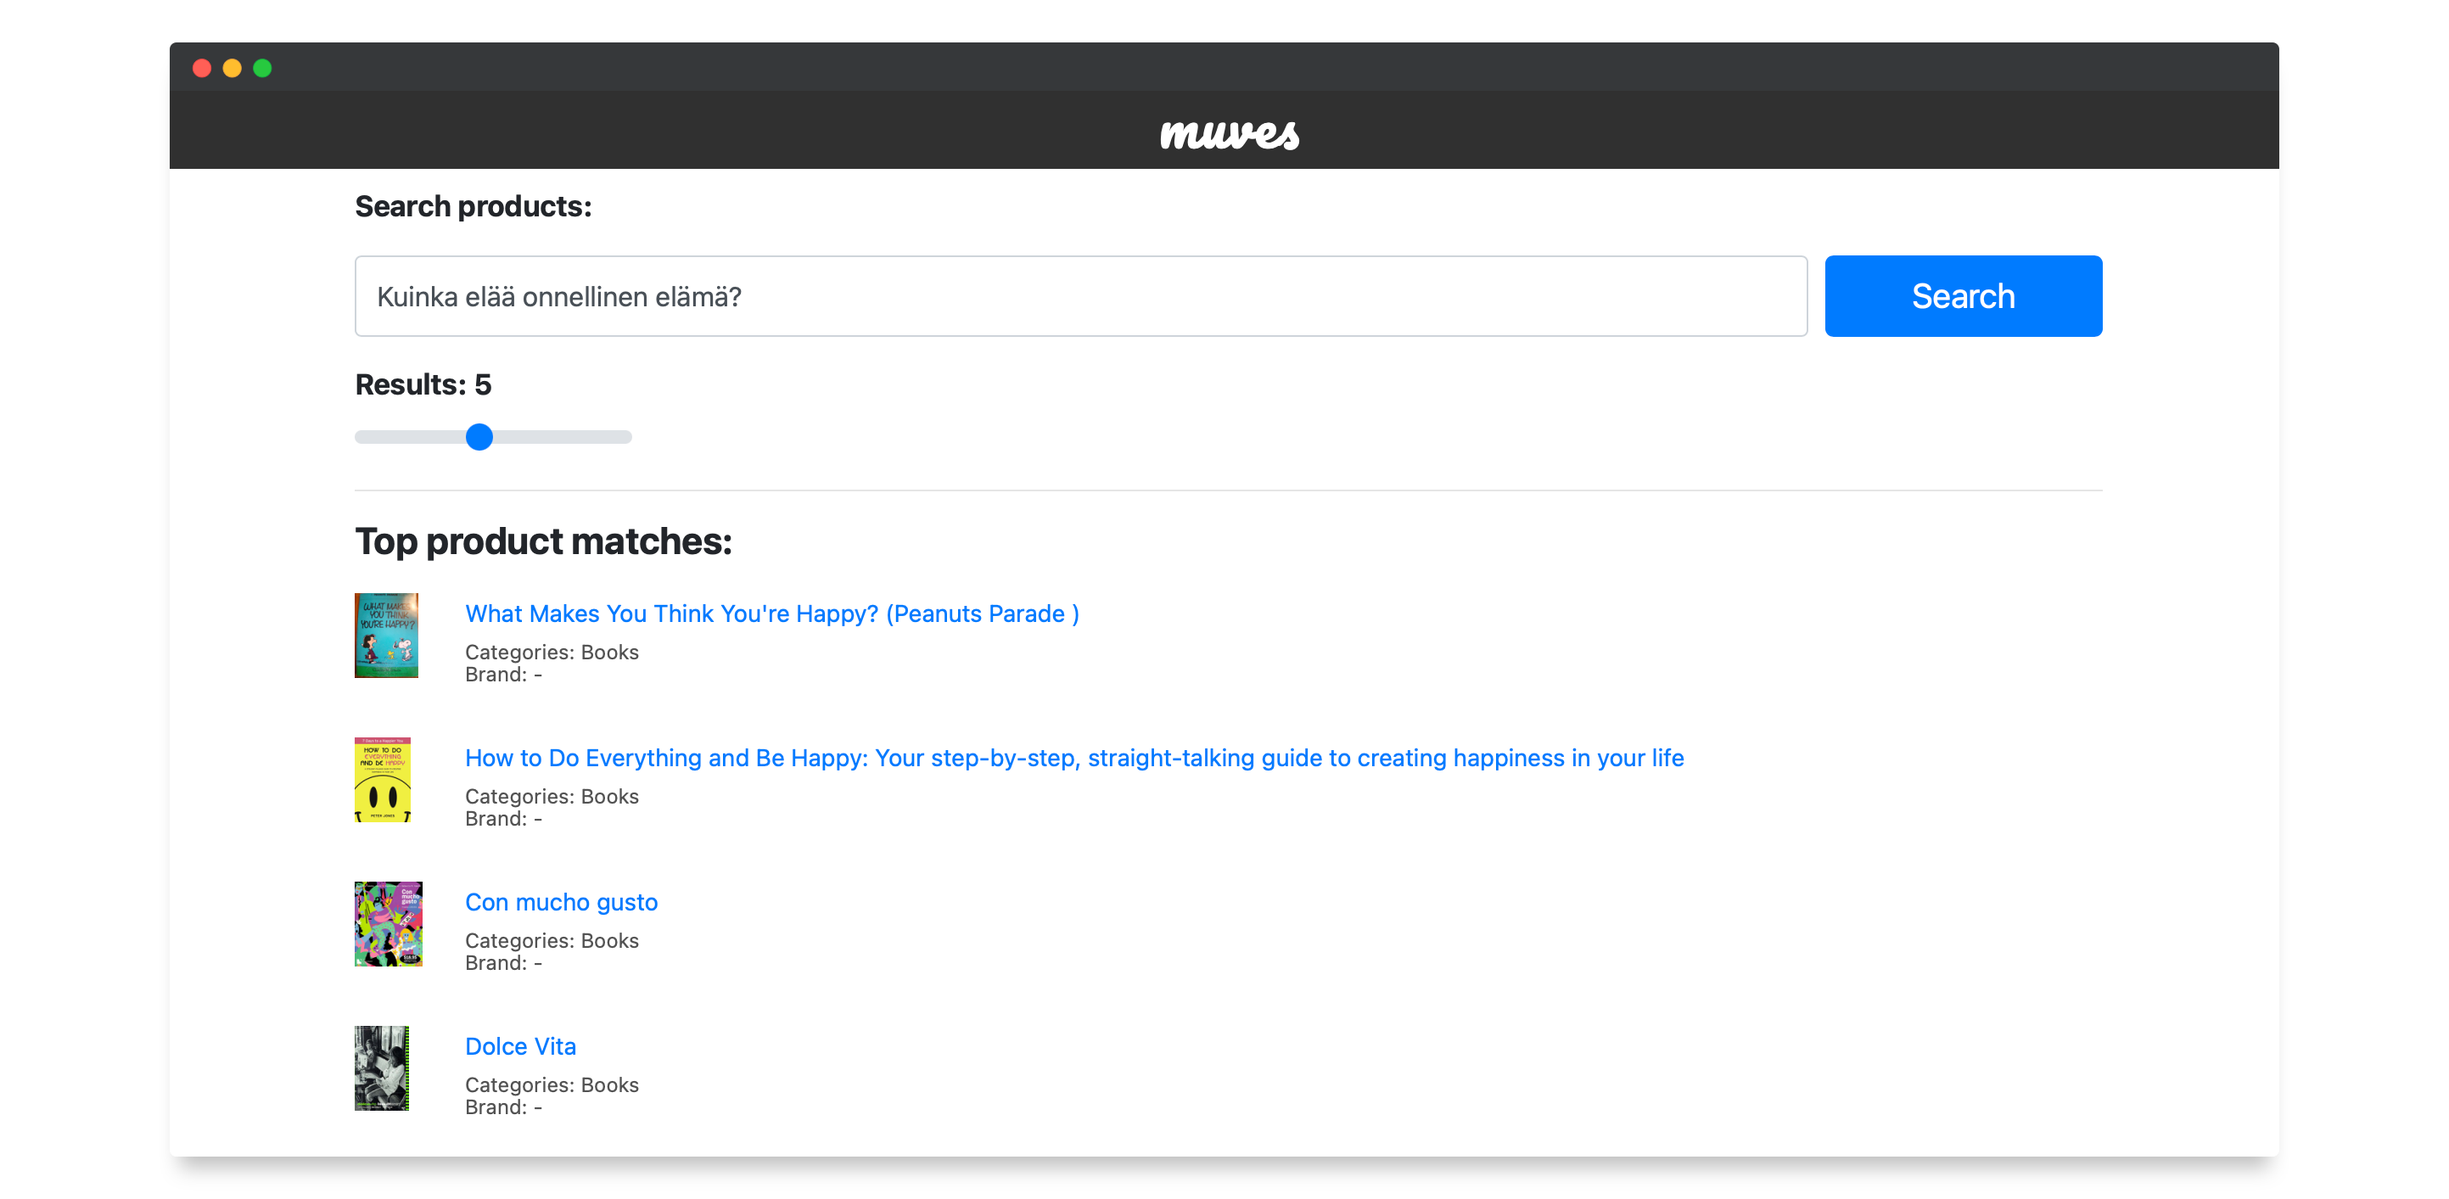
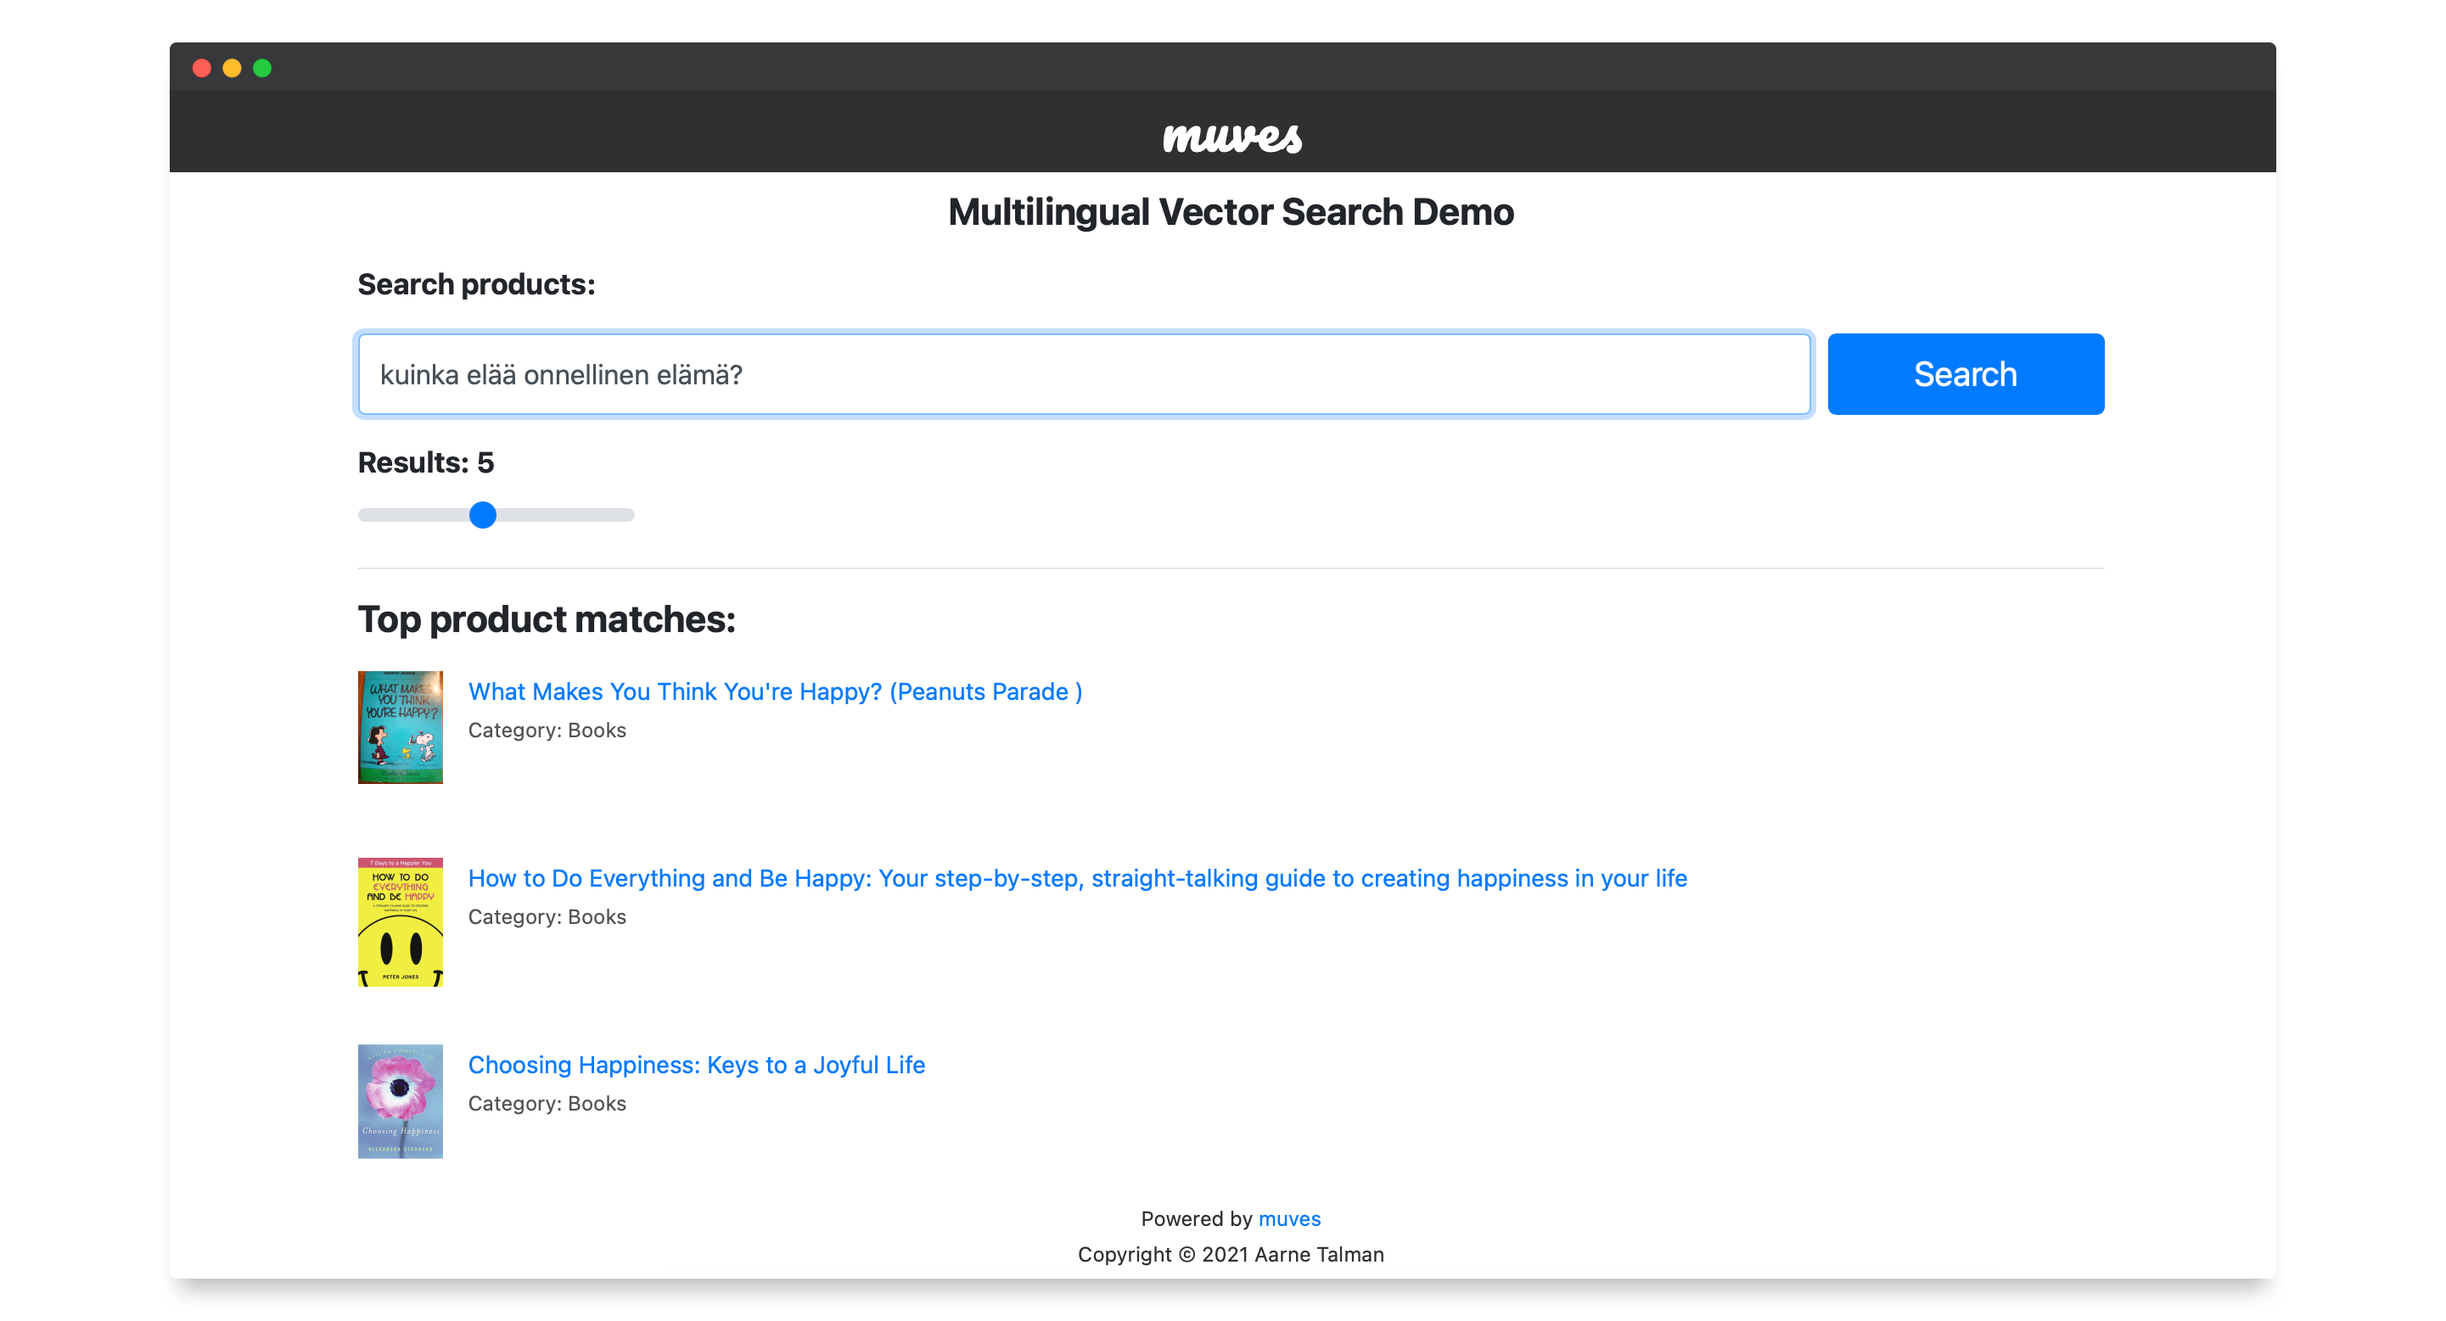
updated screenshot

diff --git a/_site/index.html b/_site/index.html
@@ -7,22 +7,22 @@
     <meta http-equiv="X-UA-Compatible" content="IE=edge">
     <meta name="viewport" content="width=device-width, initial-scale=1">
     <meta name="description" content="Natural Language Processing Research Lab and Consultancy">
-    <meta name="keywords" content="Basement AI, Natural
-    Language Processing, Machine Translation, Natural Language Understanding,
-    NL, Machine Translation, Natural Language Understanding, NLP">
+    <meta name="keywords" content="Vector search, Natural
+    Language Processing, Search engines, multilingual search, NLP">
 
-    <title>Basement AI - Natural Language Processing Research Lab and Consultancy</title>
+    <title>muves - A Multilingual Vector Search project</title>
 
-    <link rel="shortcut icon" type="image/png" href="img/favicon.png">
-    <link rel="apple-touch-icon" href="img/apple-touch-icon.png">
     <!-- Bootstrap Core CSS -->
     <link rel="stylesheet" href="css/bootstrap.css" type="text/css">
+    <link rel="shortcut icon" type="image/png" href="img/favicon.png">
+    <link rel="apple-touch-icon" href="img/apple-touch-icon.png">
 
     <!-- Custom Fonts -->
     <link href='https://fonts.googleapis.com/css?family=Roboto:300italic,400italic,600italic,700italic,800italic,100,200,400,300,600,700,800' rel='stylesheet' type='text/css'>
     <link href='https://fonts.googleapis.com/css?family=Open+Sans:300italic,400italic,600italic,700italic,800italic,400,300,600,700,800' rel='stylesheet' type='text/css'>
     <link href='https://fonts.googleapis.com/css?family=Merriweather:400,300,300italic,400italic,700,700italic,900,900italic' rel='stylesheet' type='text/css'>
     <link rel="stylesheet" href="font-awesome/css/font-awesome.css" type="text/css">
+    <link rel="stylesheet" type="text/css" href="//fonts.googleapis.com/css?family=Pacifico" />
 
     <!-- Plugin CSS -->
     <link rel="stylesheet" href="css/animate.min.css" type="text/css">
@@ -36,16 +36,6 @@
         <script src="https://oss.maxcdn.com/libs/html5shiv/3.7.0/html5shiv.js"></script>
         <script src="https://oss.maxcdn.com/libs/respond.js/1.4.2/respond.min.js"></script>
     <![endif]-->
-<meta name="google-site-verification" content="NspnCw406Sxw02TnySQgy9RzTlSR54yf6r_DFOZ4z4Q" />
-    <!-- Global site tag (gtag.js) - Google Analytics -->
-<script async src="https://www.googletagmanager.com/gtag/js?id=UA-131663937-1"></script>
-<script>
-  window.dataLayer = window.dataLayer || [];
-  function gtag(){dataLayer.push(arguments);}
-  gtag('js', new Date());
-
-  gtag('config', 'UA-131663937-1');
-</script>
 
 </head>
 
@@ -61,7 +51,7 @@
                 <span class="icon-bar"></span>
                 <span class="icon-bar"></span>
             </button>
-            <a class="navbar-brand page-scroll" href="#page-top">Basement AI</a>
+            <a class="navbar-brand page-scroll" href="#page-top">muves</a>
         </div>
 
         <!-- Collect the nav links, forms, and other content for toggling -->
@@ -71,16 +61,10 @@
                     <a class="page-scroll" href="#about">About</a>
                 </li>
                 <li>
-                    <a class="page-scroll" href="#research">Research</a>
-                </li>
-                <li>
-                    <a class="page-scroll" href="#services">Services</a>
+                    <a class="page-scroll" href="https://github.com/aarnetalman/muves">Download</a>
                 </li>
                 <li>
                     <a class="page-scroll" href="#contact">Contact</a>
-                </li>
-		<li>
-                    <a href="https://basement.ai/blog/">Blog</a>
                 </li>
             </ul>
         </div>
@@ -92,10 +76,10 @@
   <header>
     <div class="header-content">
         <div class="header-content-inner">
-            <h1>Basement <span>AI</span></h1>
+            <h1>muves</h1>
             <hr>
-            <p>Basement AI is a private AI research lab and consulting
-              company specializing in natural language processing, machine learning and search.</p>
+            <p>Muves is a multilingual vector search project created and maintained by 
+                <a href="https://github.com/aarnetalman" >Aarne Talman</a> for learning and demo purposes.</p>
             <a href="#about" class="btn btn-primary btn-xl page-scroll">Learn more</a>
         </div>
     </div>
@@ -105,151 +89,29 @@
     <div class="container">
         <div class="row">
             <div class="col-lg-8 col-lg-offset-2 text-center">
-                <h2 class="section-heading">About Basement AI</h2>
+                <h2 class="section-heading">About</h2>
                 <hr class="primary">
-                <p class="text-muted">Basement AI focuses on helping organisations to identify and unlock the value 
-                  of their data through artificial intelligence.
-                  We conduct research on natural language understanding and support both commercial 
-                  and public sector organizations with their data,
-                  AI and natural language processing related initiatives.
-                  Our expertise and experience ranges from strategy definition to hands-on development of
-                  state-of-the-art machine learning and NLP systems.</p>
-                  </div>
+                <p class="text-muted">Muves uses multilingual Sentence Transformers for encodings and 
+                   FAISS vector similarity search for indexing and searching. Muves supports over 50 languages.
+                </p>
+                  <p><img src="img/screenshot.png" align="middle" width="800"></p>
+                </div>
       <div class="col-lg-8 col-lg-offset-2 text-center">
-                <a href="#contact" class="btn btn-primary btn-xl page-scroll">Contact us!</a>
+                <a href="#contact" class="btn btn-primary btn-xl page-scroll">Contact us</a>
       </div>
         </div>
     </div>
 </section>
 
-  <section class="bg-primary" id="research">
-        <div class="container">
-            <div class="row">
-                <div class="col-lg-12 text-center">
-                    <h2 class="section-heading">Research</h2>
-                    <hr class="light">
-                    <p>We conduct academic research on Natural Language Processing and Machine Learning.</p>
-                </div>
-            </div>
-        </div>
-        <div class="container">
-            <div class="row">
-                <div class="col-md-4 text-center">
-                    <div class="research-box">
-                        <i class="fa fa-4x fa-comment-o wow bounceIn text-light"></i>
-                        <h3>Natural Language Semantics</h3>
-                        <p class="text-faded">Our research focuses on computational models of natural language meaning
-                            through deep learning. Our sentence representation models
-                            have achieved state-of-the-art performance in various natural language inference and
-                            sentence encoding benchmark tasks.</p>
-                    </div>
-                </div>
-                <div class="col-md-4 text-center">
-                    <div class="research-box">
-                        <i class="fa fa-4x fa-language wow bounceIn text-light"></i>
-                        <h3>Multilingual NLP</h3>
-                        <p class="text-faded">We conduct research on representation learning of natural language meaning in a multilingual setting
-                            utilizing deep learning. Multilingual models allow for improved transfer learning of insights between different languages.</p>
-                    </div>
-                </div>
-                <div class="col-md-4 text-center">
-                    <div class="research-box">
-                        <i class="fa fa-4x fa-exchange wow bounceIn text-light"></i>
-                        <h3>Neural Machine Translation</h3>
-                        <p class="text-faded">We develop machine translation models and state-of-the-art neural machine translation systems.
-                            Our focus is especially on multilingual machine translation and machine translation
-                            of low resource languages like Finnish.</p>
-                    </div>
-                </div>
-            </div>
-        </div>
-</section>
-
-  <section id="services">
+  <section id="contact">
     <div class="container">
         <div class="row">
             <div class="col-lg-12 text-center">
-                <h2 class="section-heading">Services</h2>
+                <h2 class="section-heading">Contact us</h2>
                 <hr class="primary">
-                <p>We offer consulting services related to Data Monetization, Artificial Intelligence and Natural Language Processing.</p>
-            </div>
-        </div>
-    </div>
-    <div class="container">
-        <div class="row">
-            <div class="col-lg-3 col-md-6 text-center">
-                <div class="service-box">
-                    <i class="fa fa-4x fa-bar-chart-o wow bounceIn text-primary"></i>
-                    <h3>Strategy</h3>
-                    <p class="text-muted">We help your organization to understand and unlock the business value potential
-                        of AI and NLP by developing actionable AI and NLP strategies and roadmaps.</p>
-                </div>
-            </div>
-            <div class="col-lg-3 col-md-6 text-center">
-                <div class="service-box">
-                    <i class="fa fa-4x fa-crosshairs wow bounceIn text-primary" data-wow-delay=".1s"></i>
-                    <h3>Use Cases</h3>
-                    <p class="text-muted">We help your organization to identify and prioritize AI and NLP use cases based on
-                        their business value potential and your organization's capabilities.</p>
-                </div>
-            </div>
-            <div class="col-lg-3 col-md-6 text-center">
-                <div class="service-box">
-                    <i class="fa fa-4x fa-code wow bounceIn text-primary" data-wow-delay=".2s"></i>
-                    <h3>Proof of Concept</h3>
-                    <p class="text-muted">We help your organization to develop concrete AI and NLP experiments and
-                      proof of concepts based on the identified use cases.</p>
-                </div>
-            </div>
-            <div class="col-lg-3 col-md-6 text-center">
-                <div class="service-box">
-                    <i class="fa fa-4x fa-gear wow bounceIn text-primary" data-wow-delay=".3s"></i>
-                    <h3>Execution</h3>
-                    <p class="text-muted">We support your organization in executing and implementing production-ready
-                        AI and NLP solutions.</p>
-                </div>
-            </div>
-        </div>
-    </div>
-</section>
-
-  <section class="bg-primary" id="contact">
-    <div class="container">
-        <div class="row">
-            <div class="col-lg-12 text-center">
-                <h2 class="section-heading">Let's Get In Touch!</h2>
-                <hr class="light">
-                <p>Contact us by email or follow us on social media!</p>
-            </div>
-            <div class="col-lg-2 col-lg-offset-1 text-center">
-                <a href="mailto:info@basement.ai">
-                <i class="fa fa-envelope-o fa-3x wow bounceIn text-light" data-wow-delay=".1s"></i>
-                 <p>info@basement.ai</p>
-                </a>
-            </div>
-
-            <div class="col-lg-2 col-lg-offset-0 text-center">
-                <a href="https://www.linkedin.com/company/basement-ai">
-                    <i class="fa fa-linkedin fa-3x wow bounceIn text-light" data-wow-delay=".1s"></i>
-                  <p>basement-ai</p>
-                </a>
-            </div>
-        <div class="col-lg-2 col-lg-offset-0 text-center">
-            <a href="https://twitter.com/basement_ai">
-                <i class="fa fa-twitter fa-3x wow bounceIn text-light" data-wow-delay=".1s"></i>
-              <p>basement_ai</p>
-            </a>
-        </div>
-        <div class="col-lg-2 col-lg-offest-1 text-center">
-            <a href="https://instagram.com/basement_ai">
-            <i class="fa fa-instagram fa-3x wow bounceIn text-light" data-wow-delay=".1s"></i>
-             <p>basement_ai</p>
-            </a>
-        </div>
-        <div class="col-lg-2 col-lg-offest-1 text-center">
-            <a href="https://facebook.com/basementai">
-            <i class="fa fa-facebook fa-3x wow bounceIn text-light" data-wow-delay=".1s"></i>
-             <p>basementai</p>
+            <a href="https://twitter.com/muves_io">
+                <i class="fa fa-twitter fa-3x wow bounceIn text-primary" data-wow-delay=".1s"></i>
+              <p class="text-primary">muves_io</p>
             </a>
         </div>
  
@@ -259,13 +121,8 @@
    <footer class="panel-footer">
      <div class="container">
          <div class="row">
-             <div class="col-lg-8 col-lg-offset-2 text-left">
-                 <img src="img/nvidia.png" height="75px" align="left" style="padding-right:20px">
-                 <p class="text-muted"><i>Basement AI is part of the NVIDIA Inception program. Partnering with NVIDIA allows us to
-                 build state-of-the-art natural language processing solutions for our customers utilizing the latest technology innovation from NVIDIA.</i></p>
-            </div>
             <div class="col-lg-8 col-lg-offset-2 text-center">
-                <p>Copyright © 2021 Basement AI</p>
+                <p>Copyright © 2021 Aarne Talman</p>
             </div>
         </div>
     </div>

diff --git a/_site/css/main.css b/_site/css/main.css
@@ -50,9 +50,9 @@ aside { padding: 50px 0; }
   .navbar-default.affix .nav > li > a, .navbar-default.affix .nav > li > a:focus { color: #212121; }
   .navbar-default.affix .nav > li > a:hover, .navbar-default.affix .nav > li > a:focus:hover { color: #3d85c6; } }
 
-header { position: relative; width: 100%; min-height: auto; -webkit-background-size: cover; -moz-background-size: cover; background-size: cover; -o-background-size: cover; background-position: center; background-image: url("../img/header.jpg"); text-align: center; color: white; }
+header { position: relative; width: 100%; min-height: auto; -webkit-background-size: cover; -moz-background-size: cover; background-size: cover; -o-background-size: cover; background-position: center; text-align: center; color: white; background-color: #303030; }
 header .header-content { position: relative; text-align: center; padding: 100px 15px 100px; width: 100%; }
-header .header-content .header-content-inner h1 { font-weight: 700; text-transform: uppercase; margin-top: 0; margin-bottom: 0; }
+header .header-content .header-content-inner h1 { font-family: Pacifico; font-size: 40px; font-style: normal; font-variant: normal; font-weight: 700; line-height: 26.4px; color: #fff; }
 header .header-content .header-content-inner hr { margin: 30px auto; }
 header .header-content .header-content-inner p { font-weight: 300; color: white; font-size: 16px; margin-bottom: 50px; }
 @media (min-width: 768px) { header { min-height: 100%; }
@@ -112,6 +112,6 @@ img::-moz-selection { color: white; background: transparent; }
 
 body { -webkit-tap-highlight-color: #212121; }
 
-header .header-content .header-content-inner h1 { font-weight: 100; text-transform: none; margin-top: 0; margin-bottom: 0; color: #3d85c6; }
+header .header-content .header-content-inner h1 { font-family: Pacifico; font-size: 60px; font-style: normal; font-variant: normal; font-weight: 700; line-height: 26.4px; color: #fff; }
 
-header .header-content .header-content-inner span { font-weight: 200; margin-top: 0; margin-bottom: 0; color: white; }
+@media only screen and (max-width: 480px) { img { width: 100%; } }
